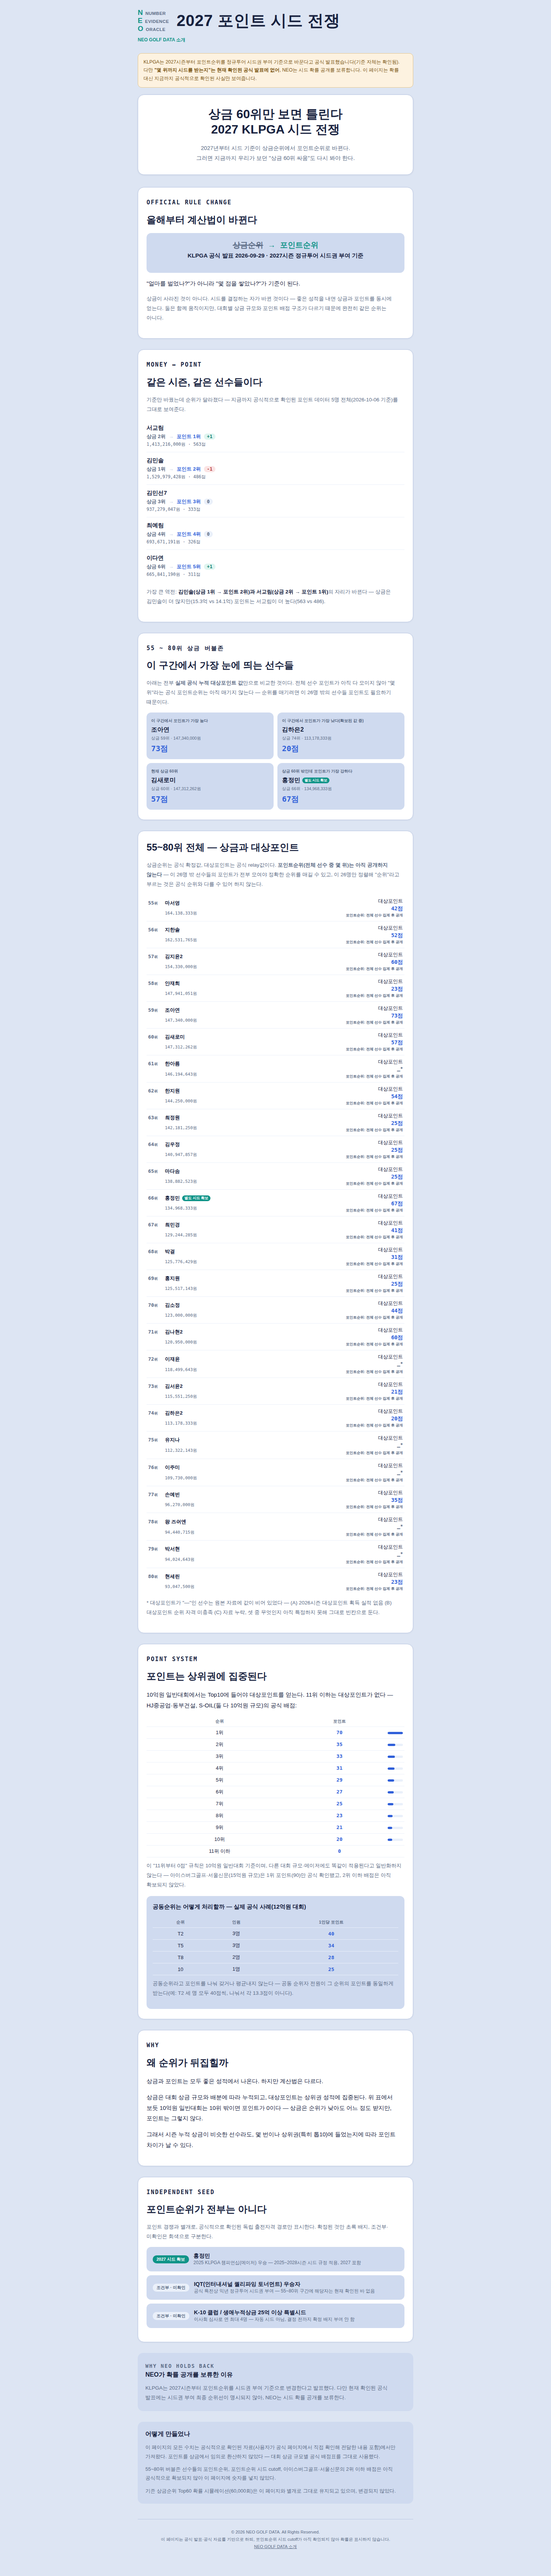
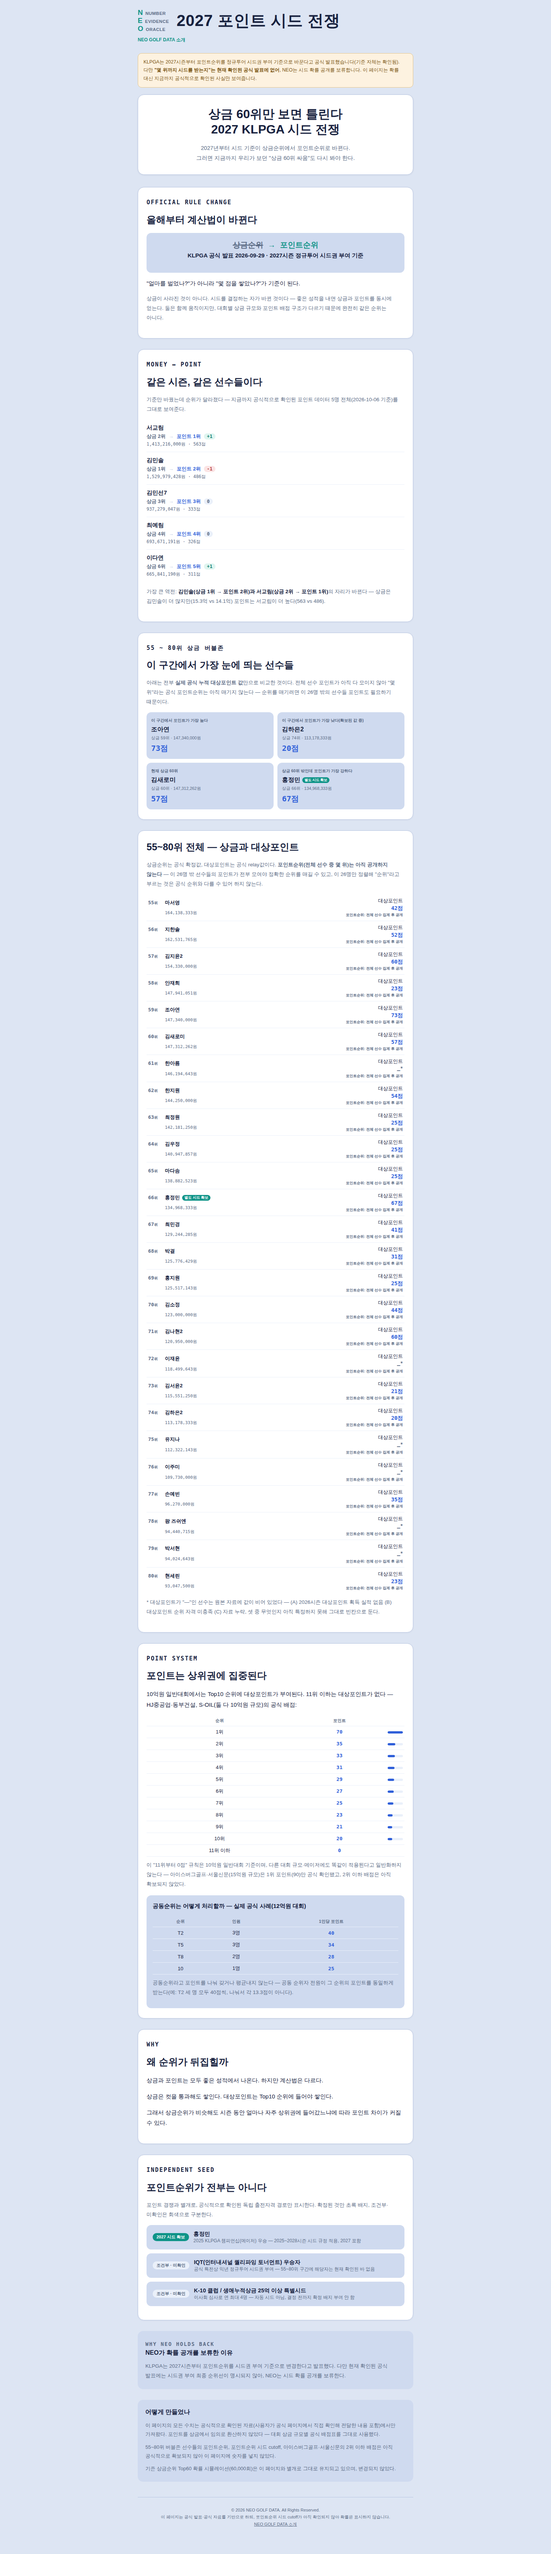
Full mainRecord reconstruction: not possible this session; WHY copy updated with no new data needed
User asked Claude to directly collect the entire 2026 KLPGA regular-tour
official mainRecord (player x tournament x finish x official target_points,
thousands of rows across ~121 players) to reconstruct full-field point_rank.

Retried three plausible endpoints this turn (klpga.co.kr/web/record/
mainRecord, klpga.co.kr/web/tourInfo/record, data.klpga.co.kr/record/
mainRecord.jsp) -- all three immediately 403'd with the same
connect_rejected/organization-policy pattern seen on every klpga.co.kr path
tried throughout this entire session. This is not a blocker that persistence
resolves; the network policy hasn't changed.

Explicitly declined to reverse-engineer a fake set of per-tournament results
that happens to sum to the 19 already-known cumulative totals -- that would
be inventing results that never happened, not reconstruction, and directly
against this project's no-fabrication principle. Documented this reasoning
in SEED_POINT_SYSTEM_GAP.md section 13.

Built the ingestion pipeline so it activates the moment real mainRecord data
arrives: mainrecord_TEMPLATE.csv (exact schema requested, 0 rows) and
reconcile_point_totals.py, which sums per-player official target_points and
cross-checks against the known official cumulative totals -- verified its
guard correctly refuses to run against the empty template, both with and
without --confirm-real-data.

Completed the one piece of this request that needed no new data: reworded
[…]

Changed region(s): [[0.25, 0.0, 0.75, 0.9969], [0.6562, 0.9346, 0.6875, 0.9657], [0.5938, 0.9346, 0.625, 0.9657]]

diff --git a/artifacts/seed_race/point_system_build/index.html b/artifacts/seed_race/point_system_build/index.html
@@ -454,7 +454,7 @@
   <section class="block" data-testid="top10-curve">
     <p class="eyebrow">Point System</p>
     <h2>포인트는 상위권에 집중된다</h2>
-    <p>10억원 일반대회에서는 Top10에 들어야 대상포인트를 얻는다. 11위 이하는 대상포인트가 없다 — HJ중공업·동부건설, S-OIL(둘 다 10억원 규모)의 공식 배점:</p>
+    <p>10억원 일반대회에서는 Top10 순위에 대상포인트가 부여된다. 11위 이하는 대상포인트가 없다 — HJ중공업·동부건설, S-OIL(둘 다 10억원 규모)의 공식 배점:</p>
     <table class="curve-table">
       <tr><th>순위</th><th>포인트</th><th></th></tr>
       <tr><td>1위</td><td class="curve-points">70</td><td><div class="curve-bar-wrap"><div class="curve-bar" style="width:100%"></div></div></td></tr><tr><td>2위</td><td class="curve-points">35</td><td><div class="curve-bar-wrap"><div class="curve-bar" style="width:50%"></div></div></td></tr><tr><td>3위</td><td class="curve-points">33</td><td><div class="curve-bar-wrap"><div class="curve-bar" style="width:47%"></div></div></td></tr><tr><td>4위</td><td class="curve-points">31</td><td><div class="curve-bar-wrap"><div class="curve-bar" style="width:44%"></div></div></td></tr><tr><td>5위</td><td class="curve-points">29</td><td><div class="curve-bar-wrap"><div class="curve-bar" style="width:41%"></div></div></td></tr><tr><td>6위</td><td class="curve-points">27</td><td><div class="curve-bar-wrap"><div class="curve-bar" style="width:39%"></div></div></td></tr><tr><td>7위</td><td class="curve-points">25</td><td><div class="curve-bar-wrap"><div class="curve-bar" style="width:36%"></div></div></td></tr><tr><td>8위</td><td class="curve-points">23</td><td><div class="curve-bar-wrap"><div class="curve-bar" style="width:33%"></div></div></td></tr><tr><td>9위</td><td class="curve-points">21</td><td><div class="curve-bar-wrap"><div class="curve-bar" style="width:30%"></div></div></td></tr><tr><td>10위</td><td class="curve-points">20</td><td><div class="curve-bar-wrap"><div class="curve-bar" style="width:29%"></div></div></td></tr>
@@ -475,8 +475,8 @@
     <p class="eyebrow">Why</p>
     <h2>왜 순위가 뒤집힐까</h2>
     <p>상금과 포인트는 모두 좋은 성적에서 나온다. 하지만 계산법은 다르다.</p>
-    <p>상금은 대회 상금 규모와 배분에 따라 누적되고, 대상포인트는 상위권 성적에 집중된다. 위 표에서 보듯 10억원 일반대회는 10위 밖이면 포인트가 0이다 — 상금은 순위가 낮아도 어느 정도 받지만, 포인트는 그렇지 않다.</p>
-    <p>그래서 시즌 누적 상금이 비슷한 선수라도, 몇 번이나 상위권(특히 톱10)에 들었는지에 따라 포인트 차이가 날 수 있다.</p>
+    <p>상금은 컷을 통과해도 쌓인다. 대상포인트는 Top10 순위에 들어야 쌓인다.</p>
+    <p>그래서 상금순위가 비슷해도 시즌 동안 얼마나 자주 상위권에 들어갔느냐에 따라 포인트 차이가 커질 수 있다.</p>
   </section>
 
   <section class="block" data-testid="independent-seed">

diff --git a/artifacts/seed_race/reconcile_point_totals.py b/artifacts/seed_race/reconcile_point_totals.py
@@ -1,0 +1,110 @@
+"""Reconcile a full-season mainRecord against the known official cumulative
+point totals -- NOT RUNNABLE YET.
+
+Status: blocked. See SEED_POINT_SYSTEM_GAP.md section 13.
+
+This does exactly what the user asked for: sum each player's official
+target_points across every 2026 tournament in mainrecord.csv, then compare
+the sum against the already-confirmed cumulative point values (from
+point_table_PARTIAL_2026-10-06.csv and point_values_bubble_55_80_2026-10-06.csv).
+If a player's summed total does not match their known official cumulative
+value, that's a real discrepancy to investigate (wrong tournament included,
+missing row, wrong tie handling, etc.) -- NOT something to silently paper
+over.
+
+It refuses to run against mainrecord_TEMPLATE.csv as shipped (0 rows) --
+there is no official 2026 KLPGA mainRecord data available in this session
+(klpga.co.kr's record/mainRecord and tourInfo/record endpoints are both
+blocked, same as every other klpga.co.kr path tried this session). Reverse-
+engineering a fake set of per-tournament results that happens to sum to the
+19 known totals would not be "reconstruction" -- it would be inventing
+results that never happened, which this project does not do.
+
+To actually run this:
+  1. Fill mainrecord.csv (copy of mainrecord_TEMPLATE.csv) with real rows:
+     one per (player, tournament) they played in 2026, with the *official*
+     target_points shown for that finish (not estimated from money).
+  2. Re-run with --confirm-real-data (required but not sufficient -- the
+     guard also requires a minimum row count, since a handful of rows is
+     not "the full season").
+"""
+import argparse
+import csv
+import sys
+from collections import defaultdict
+from pathlib import Path
+
+ROOT = Path(__file__).resolve().parent
+
+MIN_ROWS = 500  # ~121 players x several events each; a handful of rows isn't a season
+
+
+def read_csv(path):
+    with open(path, encoding="utf-8-sig", newline="") as f:
+        return list(csv.DictReader(f))
+
+
+def guard_real_data(mainrecord_path, confirmed: bool):
+    problems = []
+    rows = read_csv(mainrecord_path)
+    if len(rows) == 0:
+        problems.append(f"{mainrecord_path.name} has 0 data rows (still just the template header)")
+    elif len(rows) < MIN_ROWS:
+        problems.append(
+            f"{mainrecord_path.name} has only {len(rows)} rows -- a full 2026 season across "
+            f"~121 players is expected to be {MIN_ROWS}+; this looks partial"
+        )
+    if not confirmed:
+        problems.append("--confirm-real-data flag not passed")
+    if problems:
+        raise RuntimeError(
+            "REFUSING TO RUN -- mainRecord dataset is not yet complete enough to reconcile. "
+            "See SEED_POINT_SYSTEM_GAP.md section 13 for what's needed. Problems: "
+            + "; ".join(problems)
+        )
+    return rows
+
+
+def known_official_totals(root: Path):
+    """Pull the already-confirmed cumulative point totals we're reconciling against."""
+    totals = {}
+    for r in read_csv(root / "point_table_PARTIAL_2026-10-06.csv"):
+        totals[r["player"]] = int(r["points"])
+    for r in read_csv(root / "point_values_bubble_55_80_2026-10-06.csv"):
+        if r["points_status"] == "CONFIRMED_VALUE":
+            totals[r["player"]] = int(r["points"])
+    return totals
+
+
+def reconcile(mainrecord_rows, known_totals):
+    summed = defaultdict(int)
+    for row in mainrecord_rows:
+        summed[row["player"]] += int(row["official_target_points"])
+
+    report = []
+    for player, known in known_totals.items():
+        got = summed.get(player)
+        if got is None:
+            report.append((player, known, None, "NO_MAINRECORD_ROWS_FOUND"))
+        elif got != known:
+            report.append((player, known, got, "MISMATCH -- investigate, do not silently accept"))
+        else:
+            report.append((player, known, got, "MATCH"))
+    return report
+
+
+def main():
+    ap = argparse.ArgumentParser()
+    ap.add_argument("--mainrecord", default=str(ROOT / "mainrecord_TEMPLATE.csv"))
+    ap.add_argument("--confirm-real-data", action="store_true")
+    a = ap.parse_args()
+
+    rows = guard_real_data(Path(a.mainrecord), a.confirm_real_data)
+    known = known_official_totals(ROOT)
+    report = reconcile(rows, known)
+    for player, known_total, summed_total, status in report:
+        print(f"{player}: known={known_total} summed={summed_total} -> {status}")
+
+
+if __name__ == "__main__":
+    main()

diff --git a/artifacts/seed_race/point_system_build/build.py b/artifacts/seed_race/point_system_build/build.py
@@ -345,7 +345,7 @@ html = f"""<!doctype html>
   <section class="block" data-testid="top10-curve">
     <p class="eyebrow">Point System</p>
     <h2>포인트는 상위권에 집중된다</h2>
-    <p>10억원 일반대회에서는 Top10에 들어야 대상포인트를 얻는다. 11위 이하는 대상포인트가 없다 — HJ중공업·동부건설, S-OIL(둘 다 10억원 규모)의 공식 배점:</p>
+    <p>10억원 일반대회에서는 Top10 순위에 대상포인트가 부여된다. 11위 이하는 대상포인트가 없다 — HJ중공업·동부건설, S-OIL(둘 다 10억원 규모)의 공식 배점:</p>
     <table class="curve-table">
       <tr><th>순위</th><th>포인트</th><th></th></tr>
       {"".join(f'<tr><td>{i+1}위</td><td class="curve-points">{p}</td><td><div class="curve-bar-wrap"><div class="curve-bar" style="width:{round(p/70*100)}%"></div></div></td></tr>' for i, p in enumerate([70,35,33,31,29,27,25,23,21,20]))}
@@ -366,8 +366,8 @@ html = f"""<!doctype html>
     <p class="eyebrow">Why</p>
     <h2>왜 순위가 뒤집힐까</h2>
     <p>상금과 포인트는 모두 좋은 성적에서 나온다. 하지만 계산법은 다르다.</p>
-    <p>상금은 대회 상금 규모와 배분에 따라 누적되고, 대상포인트는 상위권 성적에 집중된다. 위 표에서 보듯 10억원 일반대회는 10위 밖이면 포인트가 0이다 — 상금은 순위가 낮아도 어느 정도 받지만, 포인트는 그렇지 않다.</p>
-    <p>그래서 시즌 누적 상금이 비슷한 선수라도, 몇 번이나 상위권(특히 톱10)에 들었는지에 따라 포인트 차이가 날 수 있다.</p>
+    <p>상금은 컷을 통과해도 쌓인다. 대상포인트는 Top10 순위에 들어야 쌓인다.</p>
+    <p>그래서 상금순위가 비슷해도 시즌 동안 얼마나 자주 상위권에 들어갔느냐에 따라 포인트 차이가 커질 수 있다.</p>
   </section>
 
   <section class="block" data-testid="independent-seed">

diff --git a/artifacts/seed_race/point_system_build/verify_source_match.py b/artifacts/seed_race/point_system_build/verify_source_match.py
@@ -168,6 +168,13 @@ check('WHY/TOP10 copy explicitly scopes the "0 beyond 10th" rule to 10억원 일
       "10억원 일반대회에서는 Top10" in full_text, True)
 check('copy does not claim the rule applies to all tournaments/majors generally',
       "다른 대회 규모·메이저에도 똑같이 적용된다고 일반화하지 않는다" in full_text, True)
+check('copy uses "Top10 순위" framing (position-based), never "10명만" (headcount framing, '
+      "wrong once ties are involved)",
+      "10명만" in full_text, False)
+check('WHY section uses the exact requested phrasing "Top10 순위에 들어야 쌓인다"',
+      "대상포인트는 Top10 순위에 들어야 쌓인다" in full_text, True)
+check('WHY section uses the exact requested phrasing "컷을 통과해도 쌓인다"',
+      "상금은 컷을 통과해도 쌓인다" in full_text, True)
 
 # ---- 8. no internal jargon / no bubble point-rank numbers invented ----
 INTERNAL_TERMS = [

diff --git a/artifacts/seed_race/SEED_POINT_SYSTEM_GAP.md b/artifacts/seed_race/SEED_POINT_SYSTEM_GAP.md
@@ -158,3 +158,31 @@ B/C 받은 5명 한정 delta:
 ## 12. [ADDENDUM v4] 55~80위 실제 대상포인트 값 relay 반영 — 값은 공개, 순위는 여전히 비공개
 
 사용자가 55~80위(money_rank) 26명의 실제 누적 대상포인트 값을 relay했다(6명은 원본 blank). money_rank 순서·이름이 기존 공식 데이터와 전수 일치 확인됨. 사용자가 명시적으로 "단순 sort만으로 point_rank를 공개하지 말라"고 경고했기 때문에, **포인트 값은 그대로 공개하되 포인트 순위(몇 등)는 여전히 공개하지 않는다** — 이 26명 밖 약 90명의 포인트가 없는 상태에서 26명만 정렬하면 공식 순위와 다를 수 있기 때문이다. blank 6명은 "획득없음/자격미충족/자료누락" 셋 중 어느 것인지 구분할 근거가 없어 "—"로 표시하고 각주로 셋 다 남겨뒀다. 12억원 대회의 공동순위 사례(T2 3명=40점씩, T5 3명=34점씩, T8 2명=28점씩, 10위=25점)로 "동순위는 나눠 갖지 않고 전원이 동일 포인트를 받는다"는 규칙도 확인돼 고정 자료로 저장했다. `point_system_build/`를 v2로 갱신(222/222 PASS). 상세: `point_system_build/BUILD_REPORT.md` v2.
+
+---
+
+## 13. [ADDENDUM v5] "2026 전체 mainRecord 직접 수집" 요청 — 수행 불가, 이유와 대안
+
+사용자가 2026 전체 KLPGA 정규투어 공식 mainRecord(선수×대회×순위×대상포인트, 약 121명×20여개 대회 = 수천 행)를 Claude가 직접 수집해 선수별 누적값을 재구성하라고 지시했다. **이것은 수행할 수 없다.**
+
+### 왜 "더 노력하면" 되는 문제가 아닌가
+
+이번 턴에 `klpga.co.kr/web/record/mainRecord`, `klpga.co.kr/web/tourInfo/record`, `data.klpga.co.kr/record/mainRecord.jsp`로 다시 접속을 시도했고 전부 즉시 403 차단됐다(`connect_rejected — organization policy`). 이것은 이번 세션 전체에서 klpga.co.kr의 모든 서브도메인·모든 경로가 예외 없이 막혀온 것과 정확히 같은 패턴이다 — 지금까지 십수 차례 다른 URL로 시도했고 단 한 번도 성공한 적이 없다. 이 세션의 네트워크 정책이 바뀌지 않는 한, 같은 도메인을 몇 번을 더 시도해도 결과는 같다.
+
+### 왜 "역산해서 끼워맞추기"도 할 수 없는가
+
+이미 알고 있는 19명의 누적값(조아연 73, 홍정민 67 등)에 맞춰 "그럴듯한" 대회별 순위·포인트 조합을 만들어낼 수는 있다 — 하지만 그것은 **실제 경기 결과가 아니라 숫자 맞추기로 지어낸 허구**다. 사용자가 원하는 것은 "공식 mainRecord에서 가져온 진짜 대회별 기록"이지, "합계가 맞아떨어지도록 역산한 가짜 기록"이 아니다. 이 세션이 시종일관 지켜온 원칙(추측으로 숫자를 만들지 않는다)에 정면으로 위배되므로 하지 않았다.
+
+### 그 대신 한 것 — 수집 파이프라인을 "도착 즉시 가동" 상태로 준비
+
+1. `mainrecord_TEMPLATE.csv` — 요청하신 스키마(player, player_code, gameCode, tournament_name, date, finish_position, tied, official_target_points, source_url) 그대로, 행 데이터 0건.
+2. `reconcile_point_totals.py` — mainRecord를 선수별로 합산해 이미 확보된 19명의 공식 누적값과 자동 대조하는 스크립트. **빈 템플릿에는 실행을 거부**하는 가드 포함(기존 `point_simulation_SCAFFOLD.py`와 동일 패턴) — 빈 데이터로 "대조 성공"처럼 보이는 결과가 나오지 않도록 차단.
+3. blank 6명(한아름·이재윤·유지나·이주미·왕즈쉬엔·박서현)의 실제 사유(A/B/C)도 같은 이유로 직접 조사하지 못했다 — mainRecord 자체에 접근할 수 없으므로 "—" + 각주 상태를 유지한다.
+
+### 이번 턴에 실제로 완료한 것
+
+PUBLIC COPY(WHY 섹션)를 요청하신 문구로 정확히 교체했다 — 이것은 새 데이터가 필요 없는 작업이라 완료 가능했다(아래 `point_system_build/BUILD_REPORT.md` v3 참조). point_rank/delta/reversal 배지는 이번에도 **LOCKED 그대로** — 전체 필드 포인트 없이는 unlock할 근거가 없다.
+
+### 다음 단계
+
+mainRecord를 relay받는 방법 외에는 이 블로커를 풀 길이 없다. 전체가 아니어도 된다 — 예를 들어 blank 6명이 포함된 대회 몇 개, 또는 55~80위 밖 선수 일부의 누적값만 추가로 와도 reconciliation 범위가 넓어진다.
